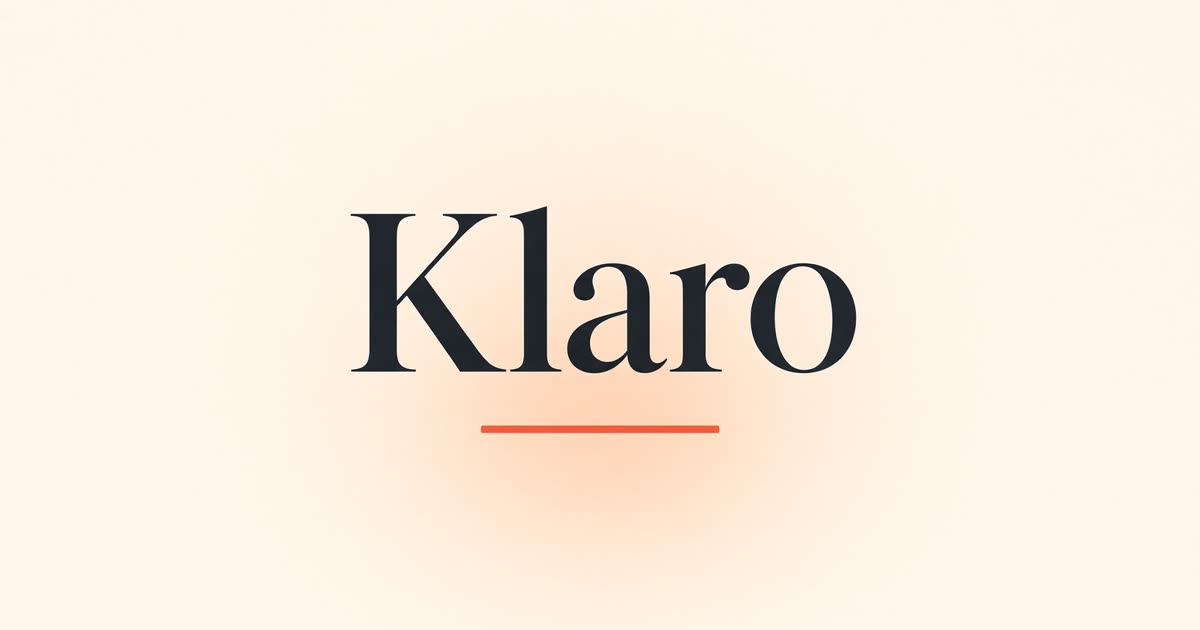
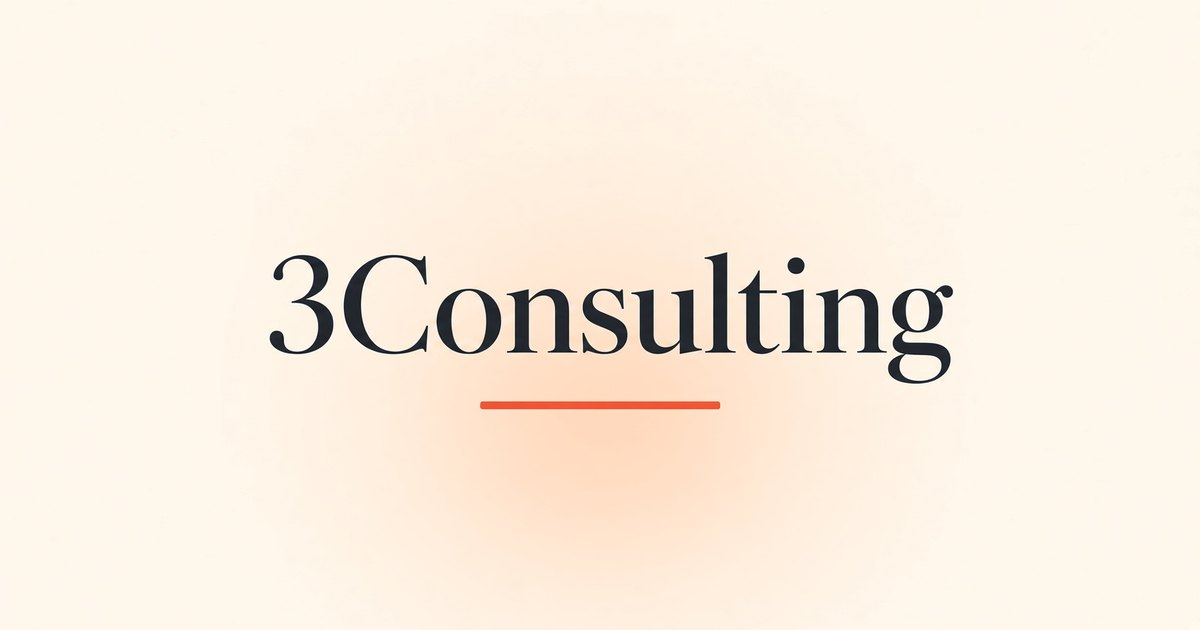
Rename the landing from Klaro to 3Consulting.

Changed region(s): [[0.2158, 0.3317, 0.8017, 0.6333], [0.4008, 0.6333, 0.6167, 0.6937]]

diff --git a/src/components/landing/home.tsx b/src/components/landing/home.tsx
@@ -11,7 +11,7 @@ import {
   X,
 } from "lucide-react";
 
-const STORAGE_KEY = "klaro-letter";
+const STORAGE_KEY = "3consulting-letter";
 
 const NAV = [
   { href: "#product", label: "Продукт" },
@@ -283,9 +283,9 @@ export function HomePage() {
         <div className="mx-auto flex h-16 max-w-6xl items-center justify-between gap-3 px-5">
           <a href="#top" className="flex items-center gap-2 font-semibold tracking-tight">
             <span className="headline grid size-9 place-items-center rounded-xl bg-ink text-lg text-paper">
-              К
+              3
             </span>
-            Klaro
+            3Consulting
           </a>
 
           <nav className="hidden items-center gap-1 md:flex" aria-label="Разделы">
@@ -343,7 +343,7 @@ export function HomePage() {
                 Десять клиентов, которым ещё можно <span className="text-coral">помочь</span>
               </h1>
               <p className="mt-5 max-w-xl text-lg text-muted">
-                Klaro смотрит продукт, счета и тикеты и каждое утро ставит в очередь только тех, кого
+                3Consulting смотрит продукт, счета и тикеты и каждое утро ставит в очередь только тех, кого
                 ещё реально удержать. С причиной и первым абзацем — не с таблицей на сорок столбцов.
               </p>
               <div className="mt-8 flex flex-col gap-3 sm:flex-row">
@@ -422,7 +422,7 @@ export function HomePage() {
             <div className="max-w-3xl">
               <p className="text-sm font-semibold text-coral">Продукт</p>
               <h2 className="headline mt-3 text-3xl sm:text-4xl">
-                Klaro не рисует ещё один дашборд. Он закрывает утро.
+                3Consulting не рисует ещё один дашборд. Он закрывает утро.
               </h2>
             </div>
             <ol className="mt-10 grid gap-8 md:grid-cols-3">
@@ -672,8 +672,8 @@ export function HomePage() {
       <footer className="border-t border-line">
         <div className="mx-auto flex max-w-6xl flex-col gap-4 px-5 py-8 sm:flex-row sm:items-center sm:justify-between">
           <p className="flex items-center gap-2 font-semibold">
-            <span className="headline grid size-8 place-items-center rounded-lg bg-ink text-paper">К</span>
-            Klaro
+            <span className="headline grid size-8 place-items-center rounded-lg bg-ink text-paper">3</span>
+            3Consulting
           </p>
           <p className="text-sm text-muted">Очередь удержания. Демонстрационный лендинг.</p>
           <a href="#start" className="text-sm font-semibold text-ink">

diff --git a/src/routes/__root.tsx b/src/routes/__root.tsx
@@ -10,11 +10,11 @@ export const Route = createRootRoute({
     meta: [
       { charSet: "utf-8" },
       { name: "viewport", content: "width=device-width, initial-scale=1" },
-      { title: "Klaro — десять клиентов, которым ещё можно помочь" },
+      { title: "3Consulting — десять клиентов, которым ещё можно помочь" },
       {
         name: "description",
         content:
-          "Klaro собирает сигналы продукта, счетов и поддержки и каждое утро ставит в очередь клиентов, которых ещё можно удержать.",
+          "3Consulting собирает сигналы продукта, счетов и поддержки и каждое утро ставит в очередь клиентов, которых ещё можно удержать.",
       },
       { name: "theme-color", content: "#fde7dc" },
     ],

diff --git a/README.md b/README.md
@@ -1,4 +1,4 @@
-# Klaro
+# 3Consulting
 
 Лендинг SaaS-продукта для команд удержания: утренняя очередь из десяти клиентов, которым ещё можно помочь, с причиной и первым абзацем письма.
 
